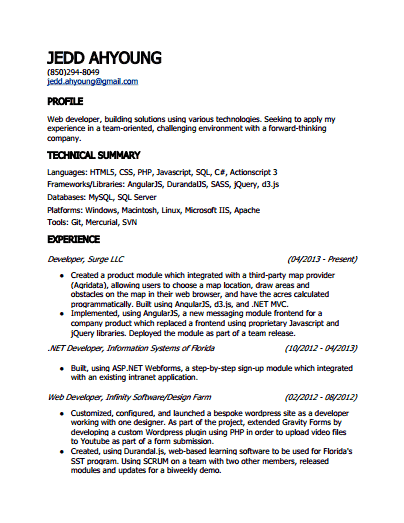
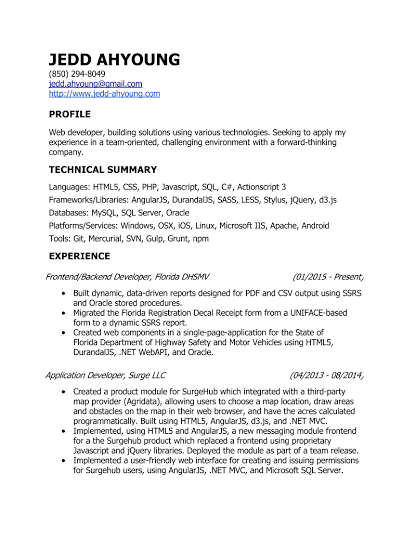
Fix google drive thumbnail 403.

Changed region(s): [[0.1188, 0.0918, 0.8911, 0.9178]]

diff --git a/index.html b/index.html
@@ -61,8 +61,8 @@
 					</div><div class="column on-2">
 						<div class="resume-page overflow-container">
 							<a href="https://docs.google.com/document/d/1ciDqbdmYxMq7YjaPLETBcg9UCzYQaYpmndJtDiN_pK4/export?format=pdf" aria-label="View My Resume">
-								<!-- <img src="images/resume-image.png" /> -->
-								<img src="https://lh3.google.com/Dfqq3blLvYR0PQqr9wK3zAs7ape932a-FM6w0WswpfFw5NySIbGjwfskAj1Q6i4vRe4wxju3CTbYACWZ704OiB_YSh-rl-6G=w416" />
+								<img src="images/resume-image.png" />
+								<!-- <img src="https://lh3.google.com/Dfqq3blLvYR0PQqr9wK3zAs7ape932a-FM6w0WswpfFw5NySIbGjwfskAj1Q6i4vRe4wxju3CTbYACWZ704OiB_YSh-rl-6G=w416" /> -->
 							</a>
 						</div>
 					</div>
